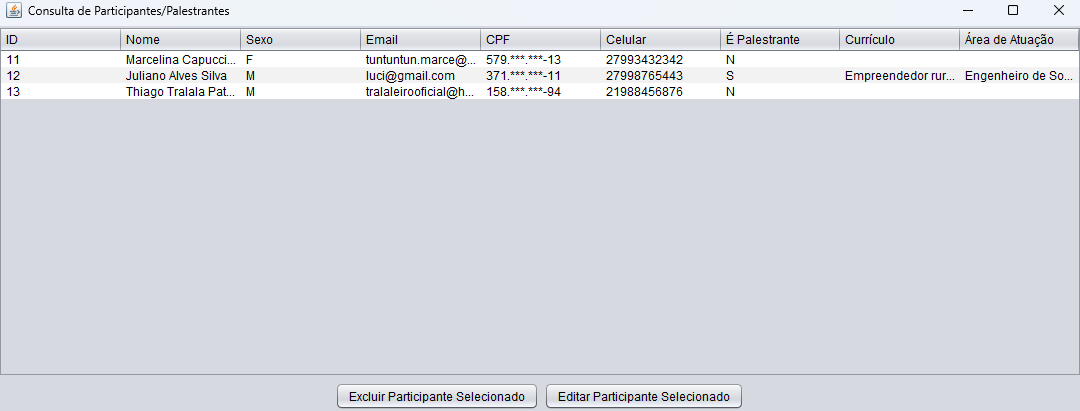
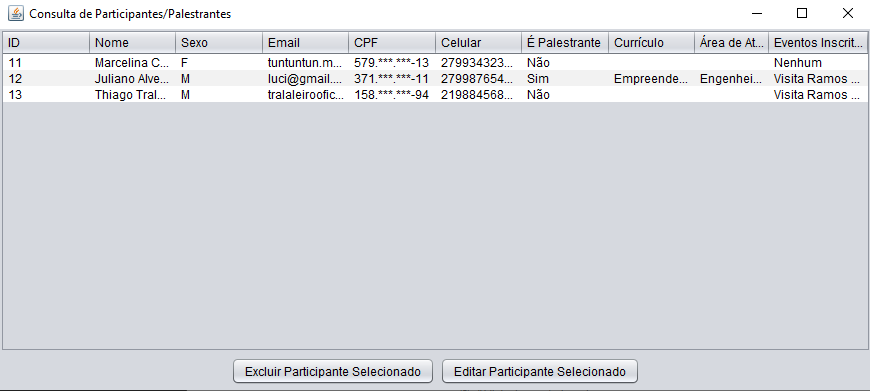
Adicionando colunas e dando replace de sim e não

Changed region(s): [[0.0, 0.0, 1.0, 1.0]]

diff --git a/screens/ParticipantesEventoDialog.java b/screens/ParticipantesEventoDialog.java
@@ -62,7 +62,7 @@ public class ParticipantesEventoDialog extends JDialog {
     JPanel painelInscritos = new JPanel(new BorderLayout(5, 5));
     painelInscritos.setBorder(new TitledBorder("Participantes Inscritos no Evento"));
 
-    String[] colunasInscritos = { "ID", "Nome", "Email", "Celular" };
+    String[] colunasInscritos = { "ID", "Nome", "Email", "Celular", "É Palestrante" };
     modelInscritos = new DefaultTableModel(colunasInscritos, 0) {
       @Override
       public boolean isCellEditable(int row, int column) {
@@ -87,7 +87,7 @@ public class ParticipantesEventoDialog extends JDialog {
     JPanel painelBusca = new JPanel(new FlowLayout(FlowLayout.LEFT, 5, 5)); // Adicionado espaçamento
     painelBusca.add(new JLabel("Buscar por:"));
 
-    String[] criterios = { "Todos", "ID", "Nome", "Email", "Celular" };
+    String[] criterios = { "Todos", "ID", "Nome", "Email", "Celular", "É Palestrante" };
     comboBoxCriterioBusca = new JComboBox<>(criterios);
     painelBusca.add(comboBoxCriterioBusca);
 
@@ -113,7 +113,7 @@ public class ParticipantesEventoDialog extends JDialog {
     painelBusca.add(botaoBuscarOutros);
     painelOutros.add(painelBusca, BorderLayout.NORTH);
 
-    String[] colunasOutros = { "ID", "Nome", "Email", "Celular" };
+    String[] colunasOutros = { "ID", "Nome", "Email", "Celular", "É Palestrante" };
     modelOutros = new DefaultTableModel(colunasOutros, 0) {
       @Override
       public boolean isCellEditable(int row, int column) {
@@ -165,7 +165,7 @@ public class ParticipantesEventoDialog extends JDialog {
 
         if (p != null && p.getId() != null) {
           modelInscritos.addRow(new Object[] {
-              p.getId(), p.getNome(), p.getEmail(), p.getCelular()
+              p.getId(), p.getNome(), p.getEmail(), p.getCelular(), "S".equals(p.getePalestrante()) ? "Sim" : "Não"
           });
         }
       }
@@ -248,7 +248,7 @@ public class ParticipantesEventoDialog extends JDialog {
       for (Participante p : resultadoFiltragem) {
         if (p.getId() != null && !idsInscritos.contains(p.getId())) {
           modelOutros.addRow(new Object[] {
-              p.getId(), p.getNome(), p.getEmail(), p.getCelular()
+              p.getId(), p.getNome(), p.getEmail(), p.getCelular(), "S".equals(p.getePalestrante()) ? "Sim" : "Não"
           });
         }
       }

diff --git a/dao/ParticipanteDao.java b/dao/ParticipanteDao.java
@@ -20,11 +20,18 @@ public class ParticipanteDao {
 
   public List<Participante> listarTodos() {
     try {
-      List<Participante> lista = new ArrayList<Participante>();
-      String sql = "SELECT * FROM participante";
+      List<Participante> lista = new ArrayList<>();
+      // Query atualizada com LEFT JOIN e GROUP_CONCAT
+      String sql = "SELECT p.*, GROUP_CONCAT(e.titulo, ', ') AS eventos " +
+                   "FROM participante p " +
+                   "LEFT JOIN evento_participante ep ON p.id = ep.id_participante " +
+                   "LEFT JOIN evento e ON ep.id_evento = e.id " +
+                   "GROUP BY p.id";
+
       Connection conn = this.sqlConn.connect();
       Statement stm = conn.createStatement();
       ResultSet rs = stm.executeQuery(sql);
+
       while (rs.next()) {
         Participante participante = new Participante(
           rs.getInt("id"),
@@ -37,6 +44,8 @@ public class ParticipanteDao {
           rs.getString("areaAtuacao"),
           rs.getString("cpf")
         );
+        // Popula o novo campo com a lista de eventos
+        participante.setEventosInscritos(rs.getString("eventos"));
         lista.add(participante);
       }
       rs.close();
@@ -44,9 +53,9 @@ public class ParticipanteDao {
       this.sqlConn.close(conn);
       return lista;
     } catch (SQLException e) {
-      System.err.println("Erro no método listarTodos() da classe ParticipanteDao ao executar SELECT: " + e.getMessage());
+      System.err.println("Erro no método listarTodos() da classe ParticipanteDao: " + e.getMessage());
       e.printStackTrace();
-      return new ArrayList<Participante>();
+      return new ArrayList<>();
     }
   }
 

diff --git a/screens/ConsultaParticipanteFrame.java b/screens/ConsultaParticipanteFrame.java
@@ -56,8 +56,8 @@ public class ConsultaParticipanteFrame extends JFrame {
   private void atualizarTabela() {
     participantes = dao.listarTodos();
     String[] colunas = { "ID", "Nome", "Sexo", "Email", "CPF", "Celular", "É Palestrante", "Currículo",
-        "Área de Atuação" };
-    String[][] dados = new String[participantes.size()][9];
+        "Área de Atuação", "Eventos Inscritos" };
+    String[][] dados = new String[participantes.size()][10];
 
     for (int i = 0; i < participantes.size(); i++) {
       Participante p = participantes.get(i);
@@ -67,9 +67,10 @@ public class ConsultaParticipanteFrame extends JFrame {
       dados[i][3] = p.getEmail();
       dados[i][4] = formatarCpfParaExibicao(p.getCpf());
       dados[i][5] = p.getCelular();
-      dados[i][6] = p.getePalestrante();
+      dados[i][6] = "S".equals(p.getePalestrante()) ? "Sim" : "Não";
       dados[i][7] = p.getCurriculo() != null ? p.getCurriculo() : "N/A";
       dados[i][8] = p.getAreaAtuacao() != null ? p.getAreaAtuacao() : "N/A";
+      dados[i][9] = p.getEventosInscritos() != null ? p.getEventosInscritos() : "Nenhum";
     }
 
     tabela = new JTable(dados, colunas);

diff --git a/table/Participante.java b/table/Participante.java
@@ -10,6 +10,7 @@ public class Participante {
   private String curriculo;
   private String areaAtuacao;
   private String cpf;
+  private String eventosInscritos;
 
   public Participante() {
   }
@@ -96,5 +97,13 @@ public class Participante {
 
   public void setCpf(String cpf) {
       this.cpf = cpf;
+  }
+
+  public String getEventosInscritos() {
+    return eventosInscritos;
+  }
+
+  public void setEventosInscritos(String eventosInscritos) {
+    this.eventosInscritos = eventosInscritos;
   }
 }
